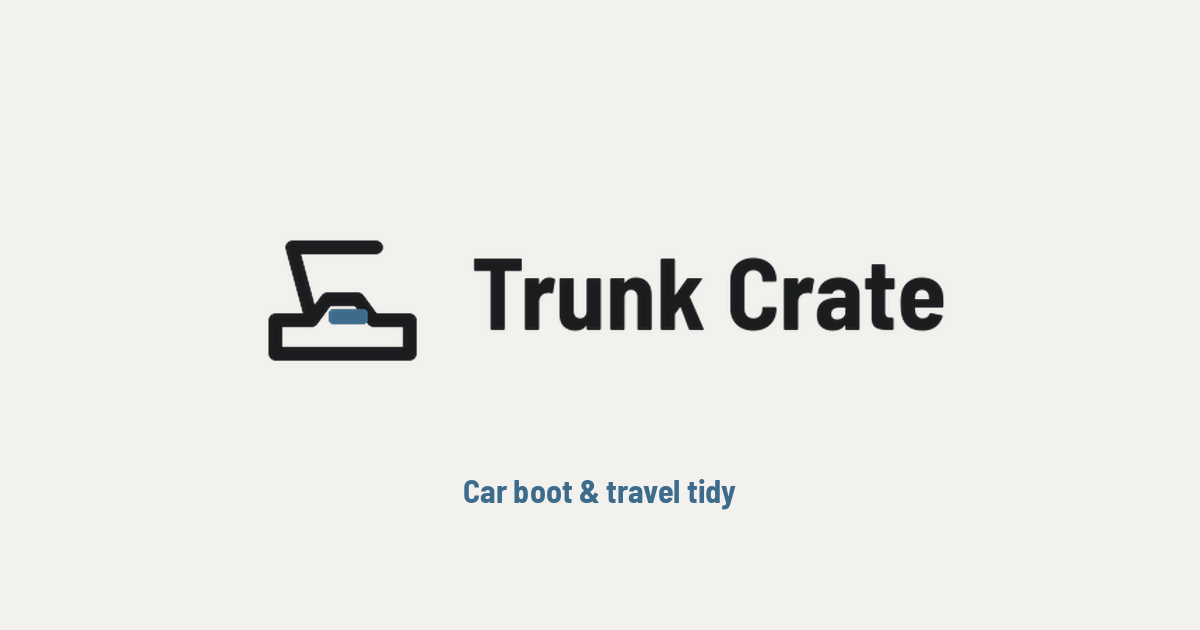
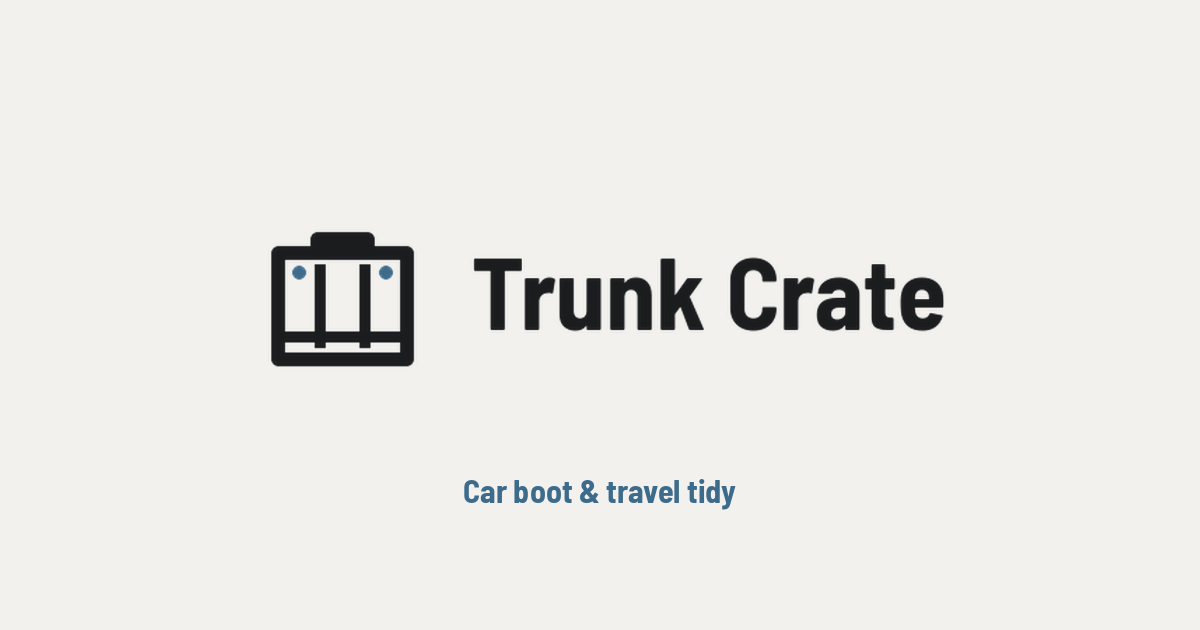
Lock Open Crate mark (Chris correction).
Replace Hatch Latch pack with Open Crate SVG, checkout mono 32/180,
colour header lockup, and favicon drop-ins.

Changed region(s): [[0.2158, 0.3619, 0.37, 0.6032]]

diff --git a/brand/README.md b/brand/README.md
@@ -1,13 +1,13 @@
-# Trunk Crate brand lock — Hatch Latch
+# Trunk Crate brand lock — Open Crate
 
-**Mark:** Option A Hatch Latch (locked 2026-09-09)
+**Mark:** Option B Open Crate (locked 2026-09-09 — corrected from Hatch Latch)
 **Wordmark:** Archivo or Barlow Semi Condensed 700, title case, tracking −0.02em
 
 ## Tokens
 | Token | Hex | Use |
 |---|---|---|
 | Asphalt | `#1A1C1E` | Mark stroke, wordmark, body ink |
-| Steel | `#3D6B8C` | Latch accent, links, small UI chrome |
+| Steel | `#3D6B8C` | Rivet accents, links, small UI chrome |
 | Cool ground | `#F2F1EE` | Page / apple-touch / OG ground |
 
 Not Cubbi cream/sage. Not Aivora copper.
@@ -20,11 +20,11 @@ Copy from `drop-into-app/` → `app/`:
 
 Copy from `drop-into-public/` → `public/`:
 - `apple-touch-icon.png` (180)
-- `og-default.png` (1200×630 preview — wire or replace with `opengraph-image`)
+- `og-default.png` (1200×630)
 
 ## Source
-- `svg/hatch-latch.svg` — colour mark
-- `svg/hatch-latch-mono.svg` — mono mark (checkout / favicon)
+- `svg/open-crate.svg` / `svg/mark.svg` — colour mark
+- `svg/open-crate-mono.svg` / `svg/mark-mono.svg` — mono
 - `svg/lockup-header.svg` — mark + wordmark
 - `png/checkout-mono-32.png` / `checkout-mono-180.png` — Shopify checkout
 - `png/header-mark-colour-180.png` — colour header mark
